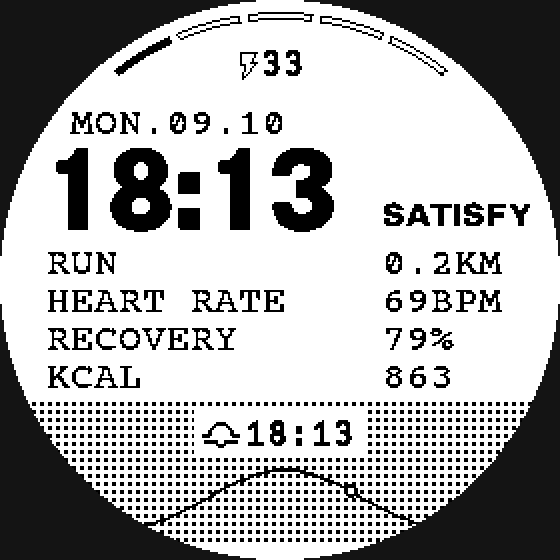
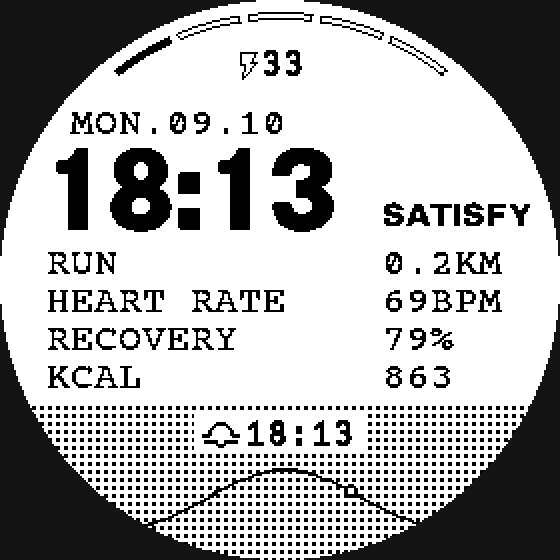
Dot band reaches the bottom edge (80 px tall), starts at y=203

Changed region(s): [[0.0607, 0.6982, 0.9411, 1.0]]

diff --git a/gen_svg.py b/gen_svg.py
@@ -14,7 +14,7 @@ BATT_Y, DATE_Y, TIME_Y, SAT_Y = 21, 51, 61, 98
 BATT_X, DATE_X = 130, 35
 LABEL_X, COL2_X, SAT_X, TIME_X = 23, 191, 191, 20
 ROW_Y = [121, 140, 159, 178]
-BAND_Y = 201
+BAND_Y = 203
 SEG_COUNT, SEG_LEN, SEG_END, SEG_GAP, SEG_R_OUT, SEG_R_IN = 5, 13.7, 13.7, 2.0, 133, 130
 BATT = 33
 
@@ -56,7 +56,7 @@ L = ['<svg xmlns="http://www.w3.org/2000/svg" width="280" height="280" viewBox="
 # halftone band (dot grid) + hill
 L.append('  <pattern id="dots" width="4" height="4" patternUnits="userSpaceOnUse">'
          '<rect width="2" height="2" fill="#000"/></pattern>')
-L.append(f'  <rect id="halftone band" x="0" y="{BAND_Y}" width="280" height="72" fill="url(#dots)"/>')
+L.append(f'  <rect id="halftone band" x="0" y="{BAND_Y}" width="280" height="80" fill="url(#dots)"/>')
 # hill line + sun marker
 MARK_X0, MARK_X1, FRAC = 70, 210, 0.75
 def hill(x):

diff --git a/preview.py b/preview.py
@@ -8,9 +8,9 @@ DD = "resources/drawables"
 os.makedirs(DD, exist_ok=True)
 
 # dotted band: 2x2 dots on a 4 px grid (1 px dots on a 2 px grid read as flat grey on the MIP screen)
-band = Image.new("RGBA", (280, 72), (0, 0, 0, 0))
+band = Image.new("RGBA", (280, 80), (0, 0, 0, 0))
 px = band.load()
-for yy in range(72):
+for yy in range(80):
     for xx in range(280):
         if xx % 4 < 2 and yy % 4 < 2:
             px[xx, yy] = (0, 0, 0, 255)
@@ -62,7 +62,7 @@ SAT_X   = 191
 SAT_Y   = 98
 ROW_Y   = [121, 140, 159, 178]
 LABEL_X = 23
-BAND_Y  = 201
+BAND_Y  = 203
 
 # band + hill line with sun marker
 img.paste(band, (0, BAND_Y), band)
